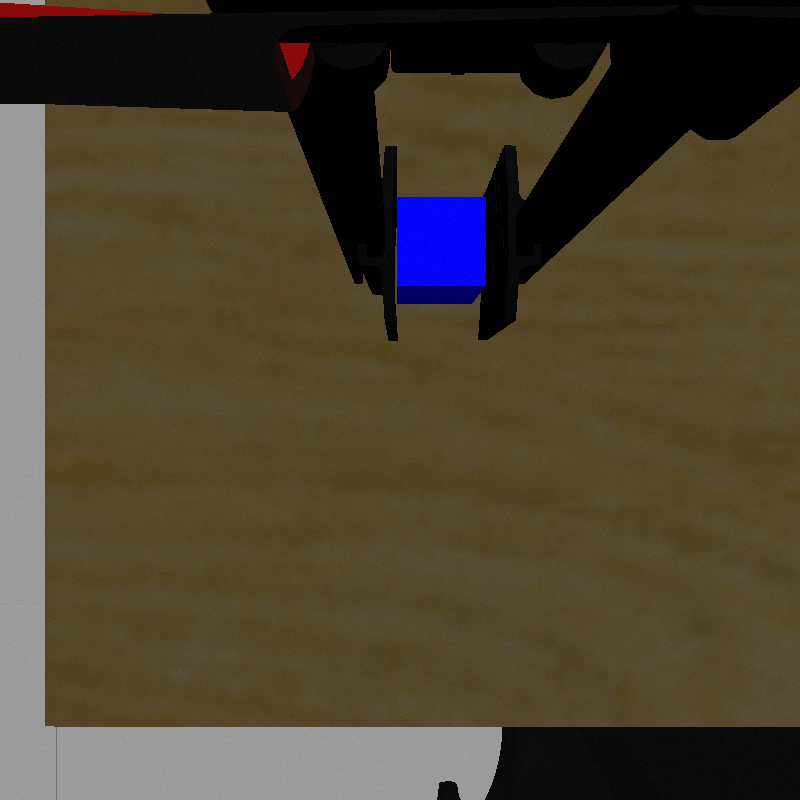
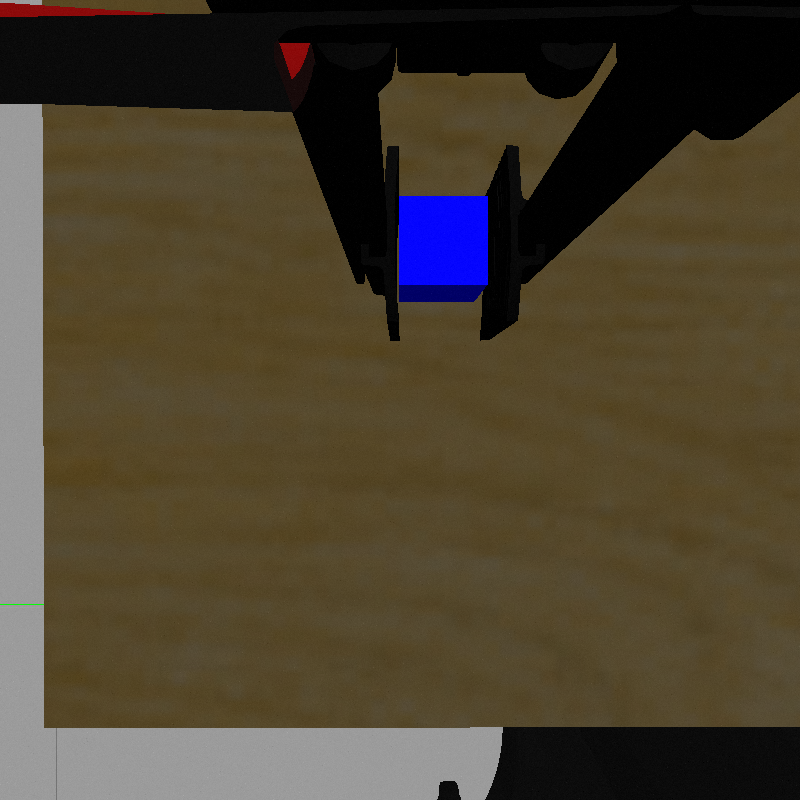
fixed the moving slightly

diff --git a/src/planning/src/pickup_and_place.py b/src/planning/src/pickup_and_place.py
@@ -265,7 +265,7 @@ def main():
                 print(key)
                 move_arm(key,x, y, z+.1)
                 grasp(key,x, y, z)
-                raw_input("press Enter to check cube color:" )
+                raw_input("press Enter to check cube color:")
                 color = image_plan()
                 print(color)
                 print(seq)
@@ -275,7 +275,8 @@ def main():
                     #print(index)
                     toPos = hardCodedPositions[index] 
                     print(toPos)
-                    move_arm(key,.85,0.0,.875)
+                    move_arm(key,x, y, z+.1)
+                    move_arm(key,toPos[0],toPos[1],toPos[2]+.05)
                     #print('moved')
                     if key == 'left_arm':
                         openLeftGripper()
